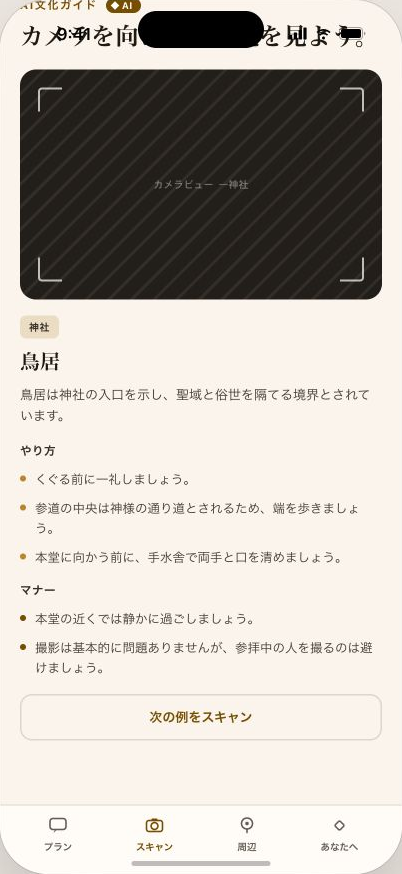
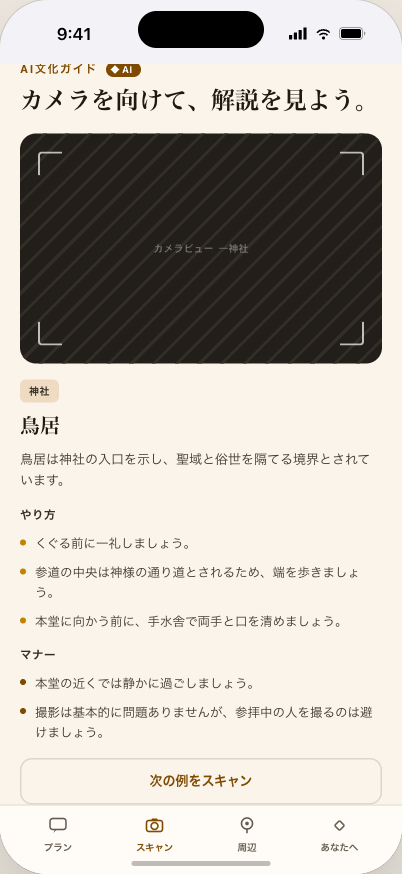
docs: #127 提出資料の必須4項目と著作権ルールを実ファイルで照合する (#223)
* docs: #127 提出資料の必須4項目と著作権ルールを実ファイルで照合する

生成した PPTX を unzip して主催者規定4項目（BGM／いらすとや／地図の帰属／
引用の出典）を判定し、カタログURL10件を package_show で再確認した。結果を
submission-deck.md §6 の提出前チェックリストへ、実測と文書記載を書き分けて
記録した。

- §3・§4 の「キッカー」が v1.20.0 の丸数字削除に追随しておらず、固定文言の節
  が実物と食い違っていたのを同期した。ラベルから消えた「オープンデータの
  要望へ」の訴求が本文最下段の1行に移っていることを明記した
- スライド5のスキャン画面キャプチャを撮り直した。見出しがステータスバー帯に
  潰れていた原因は撮影ではなく showcase モック側（スキャン画面だけ上余白が
  無い）と実測で確定させ、撮影時に上余白を与えて回避した（#221）
- 提出フォームの利用オープンデータ入力時の注意を追加。No.10 のカタログ登録名
  は37件のデータセットが共有するため、資料側の「（渋谷区）」表記は外さない

* docs: #127 提出フォーム添付3点の 1600×900 を実ファイルで測り直す

deck/submit/ の3点は git 追跡下の提出物で、変更不可の寸法規定（1600×900px・
CONSTRAINTS §7）を負っているのに、チェックリストは前セッションの記述に依った
ままで一度も測っていなかった。3点とも実寸 1600×900 を確認し、地図・第三者
写真・いらすとや素材が写っていないことと内容の一致を目視で確認した。

著作権ルールの判定範囲を「PPTX ＋ 添付3点」として明記した。

---------

diff --git a/deck/build.js b/deck/build.js
@@ -1,5 +1,5 @@
 // 旅コンシェルジュTOKYO — 提出資料（16:9・14枚）
-// 文言の SSOT: docs/submission-deck.md v1.20.0 / docs/02-design/DATABASE.md §2
+// 文言の SSOT: docs/submission-deck.md v1.21.0 / docs/02-design/DATABASE.md §2
 //
 // 縦のリズム: kicker 0.24 / title 0.55–1.55 / 本文 1.95–6.85 / 下マージン 0.65
 const pptxgen = require("pptxgenjs");

diff --git a/docs/submission-deck.md b/docs/submission-deck.md
@@ -1,10 +1,10 @@
 ---
 title: "submission-deck"
-version: "1.20.0"
+version: "1.21.0"
 status: "draft"
 owner: "@fffokazaki"
 created: "2026-08-21"
-updated: "2026-08-22"
+updated: "2026-08-23"
 changeImpact: "medium"
 ---
 
@@ -70,7 +70,8 @@ changeImpact: "medium"
 このスライドは「主張しすぎない」ことが価値の源泉なので、言い回しを先に確定させる。
 
 - **見出し**: 答えられないときは、答えません
-- **キッカー**: プロダクト ②　答えられないものを、オープンデータの要望へ
+- **上部ラベル**: `08 / 14　プロダクト｜答えられない場合`（§2 の統一規則。v1.16.0 で定めた「プロダクト ②　答えられないものを、オープンデータの要望へ」は、**丸数字を外した v1.20.0 でラベルから消えている**）
+- **「オープンデータの要望へ」の置き場所**: ラベルから消えた分、この訴求は**本文最下段の1行が担う**（「現在はここまで稼働中。将来は『このデータをオープンデータとして用意してほしい』という東京都への要望案へ整えます。」）。冗長に見えても消さないこと —— 消すとスライド8から未回答→データ改善の筋が失われる
 - **キャプション**: このケースでは **粒度不足** と判定し、理由とともに返します
 - **実測の並置**: 東京都内の飲食店バリアフリー情報 210件中、ラーメン店は3件（板橋区・武蔵野市・青梅市）。代表エリアには0件
 - **状態の区別**: 未回答の記録・分類は稼働中。将来は「このデータをオープンデータとして用意してほしい」という東京都への公開リクエスト案へ整える（設計済み・未実装）
@@ -86,7 +87,7 @@ changeImpact: "medium"
 
 ### 見出し
 
-- **キッカー**: 仕組み ②　AI × OPEN DATA
+- **上部ラベル**: `09 / 14　仕組み｜AI × OPEN DATA`（§2 の統一規則。丸数字は v1.20.0 で削除済み）
 - **タイトル**: AIでつくり、AIで届ける。
 
 ### 上段「つくるAI」
@@ -128,7 +129,6 @@ changeImpact: "medium"
 
 ## 6. 提出前チェックリスト
 
-- [ ] **必須4項目の充足** — ①②③④が全て資料内に存在することを指差し確認
 - [x] **資料に埋め込むキャプチャ3枚（スライド6/7/8）を撮り直した**（2026-08-22・現本番URL `tokyo-odh-091`・**480×874**）。これは資料内に貼る端末フレーム画像で、**下の提出フォーム添付（1600×900px）とは別の成果物**。当初はスライド6のみの想定だったが、**7/8 も変わっていた** ―― [Issue #192](https://github.com/fffokazaki/tabi-concierge-tokyo/issues/192) が「答えられなかった問いは記録されます。…」の注記を未回答表示の脇に追加しており、旧キャプチャにはこれが写っていない。操作条件は従来どおり、興味チップのみ・自由文は空、スライド6はラーメンを外した「文化・家族向け・自然」、スライド7は文化チップ、スライド8はラーメンチップ
 - [x] **スライド6/7のキャプチャは画面上部のみ**。フレーム全体（`.app-shell`）の高さは実測で **プラン 480×1113 / あなたへ 480×1550**（2026-08-22）。全高を貼ると資料の枠（`screenSlide` の `w: 2.86, h: 5.21`・比率 0.549）で幅 **1.6〜2.3in** の短冊になり、本文が **2.8pt 相当**まで潰れるため、**比率を保って上部を表示する**方を採った。
 
@@ -141,6 +141,8 @@ changeImpact: "medium"
   pt は **アプリ本文の 11.5px**（本番で実測した最頻の本文サイズ）を基準に `11.5 / 480 × 幅in × 72` で換算した値。**旧キャプチャは3枚とも 480×874 だが、当時のフレーム高を測った記録が無い**ため、当時 `.app-shell` が 874 に収まっていたのか、当時も上部だけを写していたのかは確定できない（#188 のイラストと #192 の注記でいまが伸びていることは実測済み）。タブバーが写らなくなったので、6/7 のキャプションからタブの断り書きを外した（`SCROLL_CAPTION`）。スライド8は 480×874 に収まりタブバーまで写るため従来の `TAB_CAPTION` のまま
 - [x] **提出フォームに添付する画面キャプチャ 1600×900px を3点用意した**（2026-08-22・本番 `tokyo-odh-091`・興味チップのみ・自由文は空）。**資料に埋め込む 480×874 の端末フレーム画像とは別物**で、そちらを添付しても規定を満たさない（[CONSTRAINTS.md](01-context/CONSTRAINTS.md) §7 の変更不可の規定）。**`deck/submit/` に追跡している**（撮り直すと `/gaps` の件数が変わって同じものにならないため、生成物ではなく提出物として固定する）。`~/Documents/tabi-concierge-tokyo-deck/submit/` にも同じものを置いた。撮り方は [deck/README.md](../deck/README.md) に記録した
 
+  **2026-08-23 に3点を実ファイルで再確認した**（この項目は前セッションの記述に依っていたため、変更不可の寸法規定を測り直した）。`01-plan` / `02-unanswered` / `03-gaps` はいずれも **実寸 1600×900**。3点とも目視し、**地図・第三者写真・いらすとや素材が写っていない**ことと、内容が上表と一致することを確認した（`01` は3停留地すべてに出典チップ＋CC BY 4.0 とカテゴリイラスト、`02` は `insufficient_granularity` と理由＋[Issue #192](https://github.com/fffokazaki/tabi-concierge-tokyo/issues/192) の記録される旨の注記、`03` は48件と理由別・エリア別の内訳＋「提出プロセス自体は未実装です」の構想バッジ）。**`03` の件数は撮影当時の48件**で、稼働中のカウンターは現在も増え続けている —— 提出するのはこの固定された3点であり、撮り直さない
+
   | # | 画面 | 見せているもの |
   | --- | --- | --- |
   | 1 | プラン | 3停留地すべてに出典チップ + CC BY 4.0、カテゴリイラスト、タブバー |
@@ -149,9 +151,17 @@ changeImpact: "medium"
 
   `.app-shell` は 1600×900 のビューポートでも **480×874 固定**（内部がスクロールする端末モック）なので、ビューポートごと撮ればフレーム全体とタブバーが1枚に収まる。`/gaps` はデスクトップ幅のページなので画面いっぱいに写る。**`/gaps` の件数は稼働中のカウンターで増える** —— 撮影中にも 46 → 48 と動いた（アプリを操作した分が記録された）
 - [x] **タブバーの見え方を確認** — スキャン・周辺は `AppTabs.tsx` の `INACTIVE_TABS` で disabled 表示。キャプチャだけを見る審査員が実装済みと誤認しないよう、スライド5で5画面それぞれに層バッジを付け、スキャン・周辺を「デザイン構想」と明示した（2026-08-22）。この2画面のキャプチャは `public/showcase/Japanese version.dc.html` のモックであり、実データが流れる画面ではない
-- [ ] **カタログURL の生存確認** — 確定10件を提出直前に再確認（[DATABASE.md](02-design/DATABASE.md) §3）
-- [ ] **スライド11 の OSS 記述の確認** — OSS 化の対象は**コンシェルジュ（`worker/` `shared/` `scripts/` `migrations/`）のみ**で、旅行アプリ `src/` は含まない。切り出しの実施は提出後〜Final Stage（[Issue #129](https://github.com/fffokazaki/tabi-concierge-tokyo/issues/129)）のため、提出資料には「公開予定」と書く
-- [ ] **著作権ルール** — BGM なし／『いらすとや』は1資料20個まで／地図を使う場合は帰属表示を隠さない／引用は出典明記（[CONSTRAINTS.md](01-context/CONSTRAINTS.md) §3）
+- [x] **カタログURL の生存確認** — 確定10件を **2026-08-23 に再確認済み**（[DATABASE.md](02-design/DATABASE.md) §3 の指定どおり CKAN `package_show` で判定。カタログは WAF でブラウザ以外を弾くため HTTP ステータスでは判定できない）。10件すべて `success: true` / `state=active` / `private=false` / リソース1件以上、`license_id` は**全件 `CC-BY-4.0`**（スライド12の「全件 CC BY 4.0」の実物確認）。`metadata_modified` は §3 の記録値（2025-12-12・2026-03-30）から**変化なし** —— 「随時」更新の No.7・No.8・No.10 も差分なし
+- [x] **必須4項目の充足** — ①課題及び解決策=スライド2・3・4（＋13 インパクト）／②プロダクト=5〜11／③利用オープンデータ=12／④チーム紹介=14。**v1.20.0 で上部ラベルの丸数字（①〜④）を外したため、資料上に「①②③④」の文字は無い**（対応は上記の割り当てで満たす）。丸数字を戻すかはチーム判断
+- [x] **スライド11 の OSS 記述の確認** — OSS 化の対象は**コンシェルジュ（`worker/` `shared/` `scripts/` `migrations/`）のみ**で、旅行アプリ `src/` は含まない。切り出しの実施は提出後〜Final Stage（[Issue #129](https://github.com/fffokazaki/tabi-concierge-tokyo/issues/129)）のため、提出資料には「公開予定」と書く。**実物で確認**（2026-08-23）—— 「コンシェルジュ（バックエンド）を独立したリポジトリへ切り出し、MITライセンスで公開予定です。／旅行アプリのフロントエンドは対象外です。」＋`設計済み・未実装` バッジ、下段で「コード側｜MIT ライセンス（公開予定）」と「データ側｜CC BY 4.0（出典表示義務あり）」を別カードに並記
+- [x] **著作権ルール（主催者規定4項目）を実ファイルで確認**（2026-08-23・生成した PPTX を unzip して判定）。詳細は [Issue #127](https://github.com/fffokazaki/tabi-concierge-tokyo/issues/127) のコメントに残した
+  - **BGM なし** — `ppt/media/` は **PNG 13点のみ**。全14スライドと `presentation.xml` / `slideMaster1.xml` に `audioFile` / `videoFile` / `p:media` の参照が**0件**。`[Content_Types].xml` には `mp4` / `m4v` の Default 宣言があるが、これは pptxgenjs が常に出す定型で**対応するパートは存在しない**（unzip して grep した人が同じ疑問で止まらないよう明記する）
+  - **『いらすとや』は1資料20個まで** — 使用**0個**（上限に対する余裕ではなく、素材そのものを使っていない）。デッキの画像は重複を除いて**10点**で、内訳は自作アプリ／自作モックの画面キャプチャ7点（`deck/img/deck-*.png`）＋メンバー本人提供画像から作成した円形ポートレート3点（`team-*.png`。発表者ノートの `[Sources]` に記録済み）。プラン画面に写るカテゴリイラストは**いらすとやではなく imagegen 生成物**（[CATEGORY_ILLUSTRATIONS.md](02-design/CATEGORY_ILLUSTRATIONS.md) §5 の記載。ここは文書記載であって画像の実測ではない）
+  - **地図の帰属表示** — **地図を1枚も使っていない**ため規定の対象外。10点すべてを目視し、地図・航空写真・地図タイルが写っていないことを確認した。`src/` に地図ライブラリの依存は無く（`leaflet` / `mapbox` / `maps.google` いずれも0件）、showcase モックの `google` 参照は **Google Fonts**、`map` 参照は **`Array.prototype.map`**
+  - **引用は出典明記** — スライド12が10件すべてに提供元・データセットID・カタログURL・CC BY 4.0 を明示。スライド6・7のキャプチャには出典チップ（データセット名・提供元・取得日・CC BY 4.0）が写り、スライド7には**マナー情報の「参考: JNTO」バッジと「日本政府観光局（JNTO）の公式ページ」リンクが実際に写っている**（オープンデータの「出典」と外部情報の「参考」を見た目で分ける [ADR-012](06-reference/DECISIONS.md) の実装が、資料の中でも確認できる）
+- [x] **スライド5のスキャン画面キャプチャを撮り直した**（2026-08-23）。旧 `deck-scan-showcase.png` は画面見出し「カメラを向けて、解説を見よう。」が**ステータスバー帯とダイナミックアイランドに重なって潰れていた**。撮り方の誤りを疑って同条件で撮り直したが**同じ結果**になり、原因は showcase モック側だと確定した —— ステータスバーは `z-index: 10` の絶対配置オーバーレイ（フレーム上端から64px）で、スキャン画面だけがその下に本文の上余白を持たない（周辺画面は持つ）。**撮影時に本文へ64pxの上余白を与えて**他画面と同じ見え方で撮り直した。モック本体の修正は [Issue #221](https://github.com/fffokazaki/tabi-concierge-tokyo/issues/221)
+- [ ] **提出物の外側に残っている著作権リスク1件** — `public/showcase/.image-slots.state.json` に**出典が記録されていない写真4点**（うち1点は実在店舗の外観写真）が data URI で埋め込まれ、**本番で誰でもダウンロードできる**（[Issue #222](https://github.com/fffokazaki/tabi-concierge-tokyo/issues/222)）。**PPTX には入っていない**（デッキが showcase から使うのはスキャン・周辺の2画面で、写真スロットがあるのはプラン・あなたへ側。デッキ内10点を全点目視して確認済み）が、スライド14に本番URLを載せているため審査員が到達しうる。素性が判別できないのはリポジトリ側の記録不足なので、**まず撮影者の確認**が必要
+- [ ] **提出フォームの「利用オープンデータ」入力時の注意** — 登録は**データURL＋タイトル**。No.10 の資料表記「都市公園・都立公園一覧（渋谷区）」のうち **（渋谷区）は資料内の識別用補足**で、カタログの登録タイトルは「都市公園・都立公園一覧」。この名前は**37件のデータセットが共有している**（2026-08-23 実測。自治体ごとに同名）ため資料側の補足は外さず、フォームには `t131130d2025000003` のURLを添えて登録する
 - [ ] **提出後ただちに収録枠を予約**（30分単位・早い者順）
 
 ## 参照
@@ -163,6 +173,23 @@ changeImpact: "medium"
 - [TASKS.md](07-project-management/TASKS.md) — 提出物タスクの進捗
 
 ## Changelog
+
+### [1.21.0] - 2026-08-23
+
+#### 変更
+
+- **§6 提出前チェックリストを実ファイル照合の結果で埋めた**（[Issue #127](https://github.com/fffokazaki/tabi-concierge-tokyo/issues/127)）。生成した PPTX を unzip して主催者規定4項目（BGM／いらすとや／地図の帰属／引用の出典）を判定し、カタログURL10件を `package_show` で再確認、必須4項目とスライド11の OSS 記述を実物で確認した。**判定の根拠が「実測」か「文書記載」かを項目ごとに書き分けた**
+- **§3・§4 の「キッカー」記述を v1.20.0 のラベル規則へ同期した。** 丸数字を外したのは v1.20.0 だが、§3 は「プロダクト ②　答えられないものを、オープンデータの要望へ」、§4 は「仕組み ②　AI × OPEN DATA」という**旧形式のまま据え置かれていた**（固定文言の節が実物と食い違っていた）。あわせて、ラベルから消えた「オープンデータの要望へ」の訴求を**本文最下段の1行が担っている**ことを明記し、冗長と誤解して消されないようにした
+- **スライド5のスキャン画面キャプチャを撮り直した。** 見出しがステータスバー帯に潰れていた原因は撮影ではなく showcase モック側（スキャン画面だけ上余白が無い）と実測で確定させ、撮影時に上余白を与えて回避した。モック本体の修正は [Issue #221](https://github.com/fffokazaki/tabi-concierge-tokyo/issues/221)
+
+#### 追加
+
+- 提出フォームの「利用オープンデータ」入力時の注意を追加。No.10 のカタログ登録タイトル「都市公園・都立公園一覧」は**37件のデータセットが共有している**（自治体ごとに同名・2026-08-23 実測）ため、資料側の「（渋谷区）」表記は識別用として外さない
+- 提出物の外側に残る著作権リスクを1件記録（[Issue #222](https://github.com/fffokazaki/tabi-concierge-tokyo/issues/222)）。`public/showcase/.image-slots.state.json` の出典未記録の写真4点が本番で取得可能。**PPTX には含まれない**
+
+#### 検証
+
+- **提出フォーム添付の3点（`deck/submit/`）を実ファイルで再確認した。** この項目は前セッションの記述に依っており、**変更不可の寸法規定（1600×900px）を一度も測っていなかった**。3点とも実寸 1600×900 で、地図・第三者写真・いらすとや素材が写っていないことを目視で確認した。著作権ルールの判定範囲は **PPTX ＋ この3点**
 
 ### [1.20.0] - 2026-08-22
 
